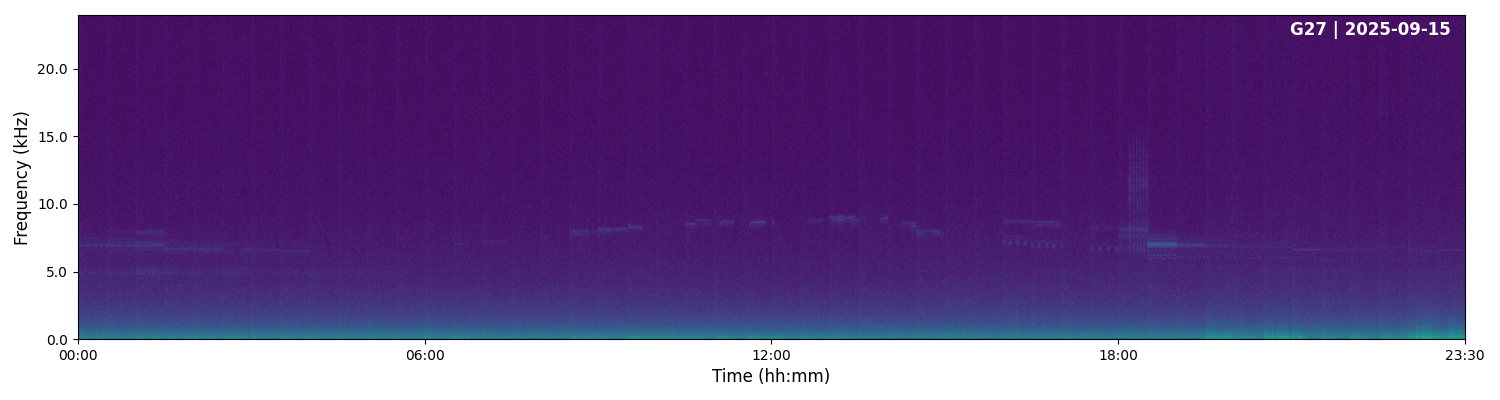
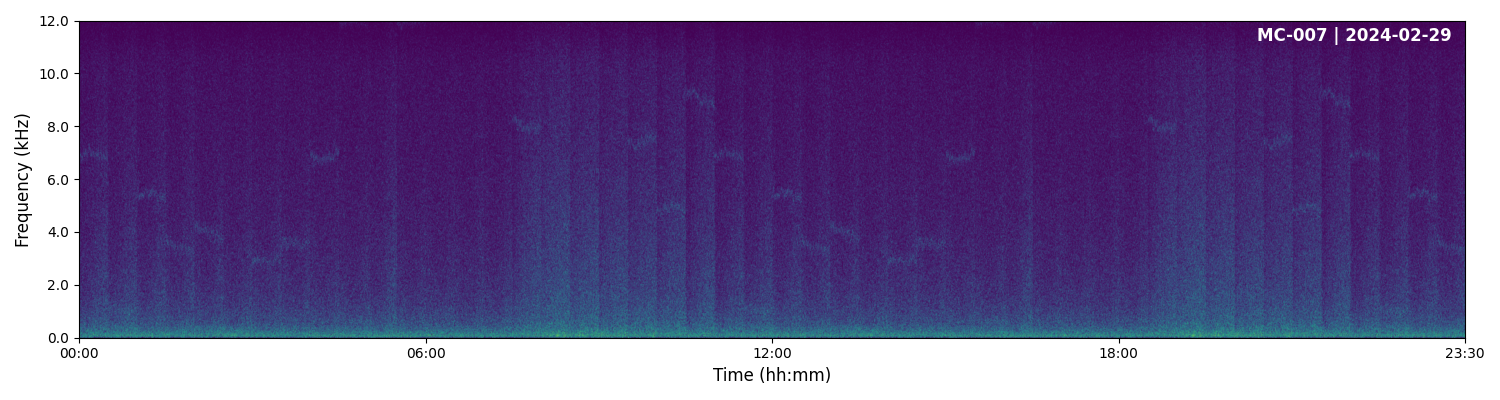
DOC: adjustments to new tutorial content

diff --git a/docs/source/beginner_tutorial/data_preparation.md b/docs/source/beginner_tutorial/data_preparation.md
@@ -32,9 +32,9 @@ This pipeline generates two standardized tables stored in `data/output/data_prep
 
 | mediaID                     | deploymentID | timestamp           | filePath                                | sampleRate | ... | bitDepth | fileLength |
 |-----------------------------|--------------|---------------------|-----------------------------------------|------------|-----|----------|------------|
-| MC-013_20240302_070000.WAV  | MC-013       | 2024-03-02T07:00:00 | .../MC-013/MC-013_20240302_070000.WAV   | 48000      | ... | 16       | 60.0       |
-| MC-013_20240229_063000.WAV  | MC-013       | 2024-02-29T06:30:00 | .../MC-013/MC-013_20240229_063000.WAV   | 48000      | ... | 16       | 60.0       |
-| MC-013_20240304_053000.WAV  | MC-013       | 2024-03-04T05:30:00 | .../MC-013/MC-013_20240304_053000.WAV   | 48000      | ... | 16       | 60.0       |
+| MC-013_20240302_070000.WAV  | MC-013       | 2024-03-02T07:00:00 | .../MC-013/MC-013_20240302_070000.WAV   | 24000      | ... | 16       | 30.0       |
+| MC-013_20240229_063000.WAV  | MC-013       | 2024-02-29T06:30:00 | .../MC-013/MC-013_20240229_063000.WAV   | 24000      | ... | 16       | 30.0       |
+| MC-013_20240304_053000.WAV  | MC-013       | 2024-03-04T05:30:00 | .../MC-013/MC-013_20240304_053000.WAV   | 24000      | ... | 16       | 30.0       |
 
 `deployments.csv` contains one row per deployment:
 

diff --git a/docs/source/beginner_tutorial/species_detection.md b/docs/source/beginner_tutorial/species_detection.md
@@ -26,6 +26,10 @@ Each row represents one detection, with the audio file name, timestamp, species 
 | 4             | MC-002       | MC-002_20240229_033000.WAV     | Ciccaba virgata      | 30.0       | 33.0     | Birdnet 2.4   | 0.103                     | ... |
 | ...           | ...          | ...                            | ...                  | ...        | ...      | ...           | ...                       | ... |
 
+```{note}
+Detection confidence scores are low by default — **pamflow** reports all detections above 0.1, so results should always be reviewed carefully. For example, *Lophostrix cristata* detections in this dataset are suspicious given that the deployment site is a pasture, where this forest owl would be unexpected. The audio segments and annotation files in the following steps are designed precisely to help with this review. For further guidance on interpreting model outputs, see [Wood and Kahl (2024)](https://link.springer.com/article/10.1007/s10336-024-02144-5).
+```
+
 ### Audio segments
 
 To validate the detections, audio segments for each target species are saved in `data/output/species_detection/segments/`, with one subfolder per species. These clips can be shared with bird experts for manual review and confirmation. The number of segments selected per species can be configured in `conf/local/parameters.yml`.

diff --git a/docs/source/beginner_tutorial/input_data.md b/docs/source/beginner_tutorial/input_data.md
@@ -11,7 +11,7 @@ This sample data is provided to show you how to use pamflow, if you plan to use 
 
 ### 2. Audio recordings
 
-During The Guaviare Project, {{number_of_sensors}} recorders were deployed for {{number_of_days}} days, programmed to record one minute every 30 minutes. If everything went as expected, each deployment collected 48 files per day, for a total of {{number_of_wav_files}} one-minute recordings.
+During The Guaviare Project, {{number_of_sensors}} recorders were deployed for {{number_of_days}} days, programmed to record 30 seconds every 30 minutes. If everything went as expected, each deployment collected 48 files per day, for a total of {{number_of_wav_files}} one-minute recordings.
 
 Inside the main folder `pam_data_guaviare/` you will find one subfolder per deployment, named after its deployment ID and containing all the audio files collected at that location:
 
